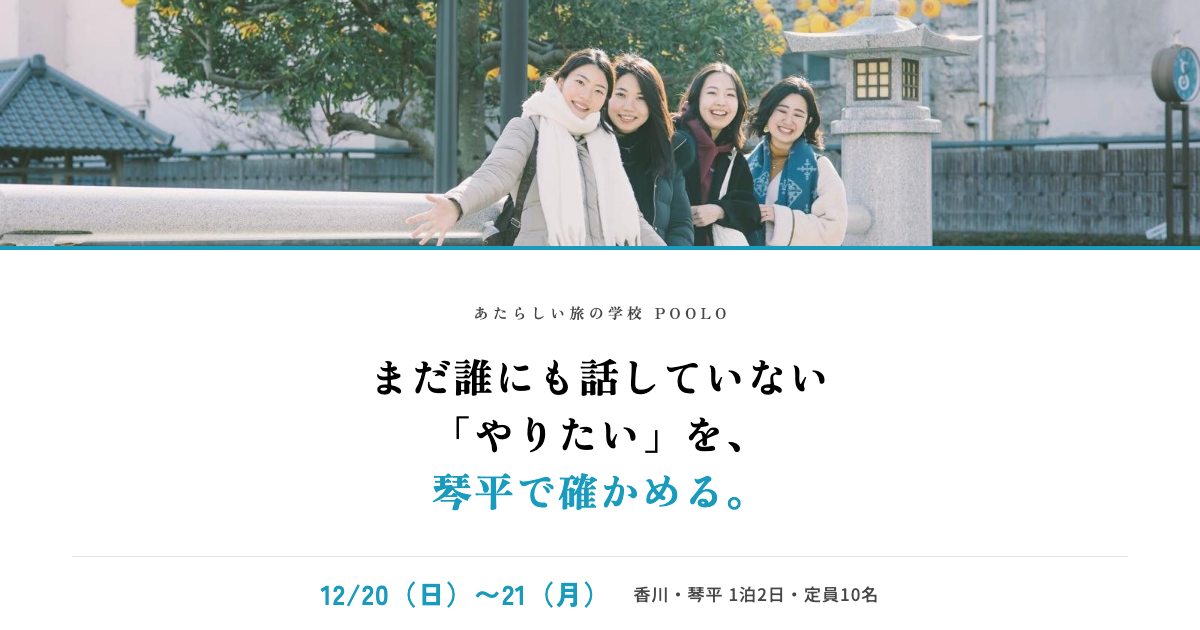
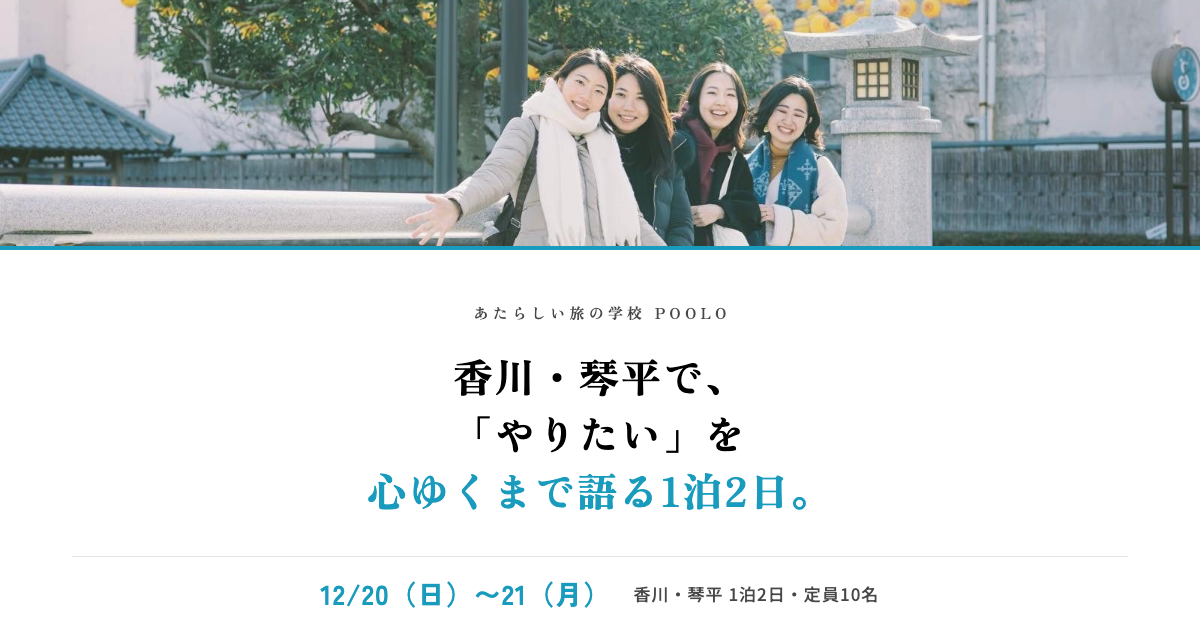
琴平LP：タイトルを「香川・琴平で、「やりたい」を心ゆくまで語る1泊2日。」に差し替え（ヒーロー・メタ・OG画像）

Changed region(s): [[0.3083, 0.754, 0.6783, 0.8143], [0.3083, 0.573, 0.6783, 0.6333], [0.37, 0.6635, 0.6167, 0.7238]]

diff --git a/event-kotohira/index.html b/event-kotohira/index.html
@@ -5,23 +5,23 @@
 <meta name="viewport" content="width=device-width, initial-scale=1.0">
 <!-- ▼たたき台（260925、261002に時間割と写真を更新）。確定前のプレビューのため検索避け -->
 <meta name="robots" content="noindex">
-<title>まだ誰にも話していない「やりたい」を、琴平で確かめる。｜香川・琴平 1泊2日｜POOLO</title>
+<title>香川・琴平で、「やりたい」を心ゆくまで語る1泊2日。｜POOLO</title>
 <meta name="description" content="仕事の話ばかりの毎日で、自分のやりたいことは、しばらく誰にも話していない。香川・琴平で好きなことを始めた人に会い、町の人と話しながら、自分の「やりたい」を確かめる1泊2日です。2026年12月20日（日）〜21日（月）、定員10名。あたらしい旅の学校POOLO。">
 
 <!-- ===== Open Graph ===== -->
 <!-- OG画像は og.html を1200×630で書き出したもの。申込がLINEなので、主要素は中央630×630に収めてある -->
 <meta property="og:type" content="website">
 <meta property="og:url" content="https://michinorionda.github.io/poolo-life/event-kotohira/">
-<meta property="og:title" content="まだ誰にも話していない「やりたい」を、琴平で確かめる。｜香川・琴平 1泊2日｜POOLO">
+<meta property="og:title" content="香川・琴平で、「やりたい」を心ゆくまで語る1泊2日。｜POOLO">
 <meta property="og:description" content="香川・琴平で好きなことを始めた人に会い、町の人と話しながら、自分の「やりたい」を確かめる1泊2日。2026年12月20日（日）〜21日（月）、定員10名。あたらしい旅の学校POOLO。">
 <meta property="og:image" content="https://michinorionda.github.io/poolo-life/event-kotohira/images/og.png">
 <meta property="og:image:width" content="1200">
 <meta property="og:image:height" content="630">
-<meta property="og:image:alt" content="まだ誰にも話していない「やりたい」を、琴平で確かめる。12/20（日）〜21（月）香川・琴平 1泊2日・定員10名">
+<meta property="og:image:alt" content="香川・琴平で、「やりたい」を心ゆくまで語る1泊2日。12/20（日）〜21（月）香川・琴平 1泊2日・定員10名">
 <meta property="og:locale" content="ja_JP">
 <meta property="og:site_name" content="POOLO LIFE">
 <meta name="twitter:card" content="summary_large_image">
-<meta name="twitter:title" content="まだ誰にも話していない「やりたい」を、琴平で確かめる。｜香川・琴平 1泊2日｜POOLO">
+<meta name="twitter:title" content="香川・琴平で、「やりたい」を心ゆくまで語る1泊2日。｜POOLO">
 <meta name="twitter:description" content="香川・琴平で好きなことを始めた人に会い、町の人と話しながら、自分の「やりたい」を確かめる1泊2日。2026年12月20日（日）〜21日（月）、定員10名。あたらしい旅の学校POOLO。">
 <meta name="twitter:image" content="https://michinorionda.github.io/poolo-life/event-kotohira/images/og.png">
 
@@ -29,7 +29,7 @@
 <link rel="stylesheet" href="../poolo-ds/tokens.css">
 <style>
 /* =============================================================
-   香川・琴平 1泊2日「まだ誰にも話していない「やりたい」を、琴平で確かめる。」
+   香川・琴平 1泊2日「香川・琴平で、「やりたい」を心ゆくまで語る1泊2日。」の告知ページ
    型は event-30s-v2-260929（旅先の会話）。通しのモチーフは「紙」。
    持ち帰るものは紙片。紙は白＋罫線色の縁、
    紙のある章の背景だけオフホワイト。レタリングと数字は images/ のSVG。
@@ -133,7 +133,7 @@ br.pc-br { display: none; }
   letter-spacing: 0.04em;
   color: var(--ink);
 }
-/* 見出しの前置き（「まだ誰にも」）。中心の3行より小さく淡く、同じ明朝で受ける */
+/* 見出しの前置き（「香川・琴平で、」）。中心の3行より小さく淡く、同じ明朝で受ける */
 .mc-pre {
   display: block;
   font-size: 0.5em;
@@ -517,7 +517,7 @@ br.pc-br { display: none; }
 <div class="fa" id="floatApply">
   <div class="fa-inner">
     <div class="fa-texts">
-      <span class="fa-main">まだ誰にも話していない「やりたい」を、琴平で確かめる。</span>
+      <span class="fa-main">香川・琴平で、「やりたい」を心ゆくまで語る1泊2日。</span>
       <span class="fa-sub"><span class="num">12/20</span>（日）–<span class="num">21</span>（月）・香川・琴平・定員<span class="num">10</span>名</span>
     </div>
     <a class="btn" href="#apply">LINEで申し込む</a>
@@ -537,7 +537,7 @@ br.pc-br { display: none; }
 <section class="fv">
   <div class="fv-top">
     <div class="fv-copy">
-      <h1 class="mc"><span class="mc-pre">まだ誰にも</span><span class="nb">話していない</span><br><span class="nb">「やりたい」を、</span><br><span class="nb">琴平で確かめる。</span></h1>
+      <h1 class="mc"><span class="mc-pre">香川・琴平で、</span><span class="nb">「やりたい」を</span><br><span class="nb">心ゆくまで語る</span><wbr><span class="nb">1泊2日。</span></h1>
       <p class="lead">仕事の話ばかりの毎日で、<br class="pc-br">自分のやりたいことは、しばらく誰にも話していない。<br class="pc-br">香川・琴平で<span class="nb">好きなことを始めた人に会い、</span><br class="pc-br"><span class="nb">町の人と話しながら、</span><span class="nb">自分の「やりたい」を確かめる1泊2日です。</span></p>
       <div class="date">
         <div><span class="date-y">2026</span><span class="date-d">12.20–21</span></div>
@@ -749,7 +749,7 @@ br.pc-br { display: none; }
     <h2 class="h2">開催概要</h2>
     <div class="ov-wrap">
       <dl class="ov">
-        <div class="ov-row"><dt>名称</dt><dd><strong>まだ誰にも話していない「やりたい」を、琴平で確かめる。</strong><br>香川・琴平で、好きなことを始めた人に会う1泊2日</dd></div>
+        <div class="ov-row"><dt>名称</dt><dd><strong>香川・琴平で、「やりたい」を心ゆくまで語る1泊2日。</strong><br>香川・琴平で、好きなことを始めた人に会う1泊2日</dd></div>
         <div class="ov-row"><dt>日程</dt><dd><strong>2026年12月20日（日）12:30 〜 12月21日（月）15:00</strong><br>15:00の解散後、18:00ごろまで残れる方は「放課後タイム」があります（参加自由）</dd></div>
         <div class="ov-row"><dt>集合・解散</dt><dd>JR琴平駅 <span class="tbd">要確認</span><br>香川県仲多度郡琴平町</dd></div>
         <div class="ov-row"><dt>アクセス</dt><dd>高松空港からリムジンバスで約45分／JR土讃線 琴平駅<br>大阪からは高速バスもあります</dd></div>

diff --git a/event-kotohira/og.html b/event-kotohira/og.html
@@ -23,7 +23,7 @@ html, body { margin: 0; padding: 0; background: #fff; }
   <div class="og-photo" style="background-image:url(images/bridge_lanterns.jpg)"></div>
   <div class="og-body">
     <p class="og-eyebrow">あたらしい旅の学校 POOLO</p>
-    <h2 class="og-title">まだ誰にも話していない<br>「やりたい」を、<br><em>琴平で確かめる。</em></h2>
+    <h2 class="og-title">香川・琴平で、<br>「やりたい」を<br><em>心ゆくまで語る1泊2日。</em></h2>
   </div>
   <div class="og-band">
     <span class="og-band-when">12/20（日）〜21（月）</span>
